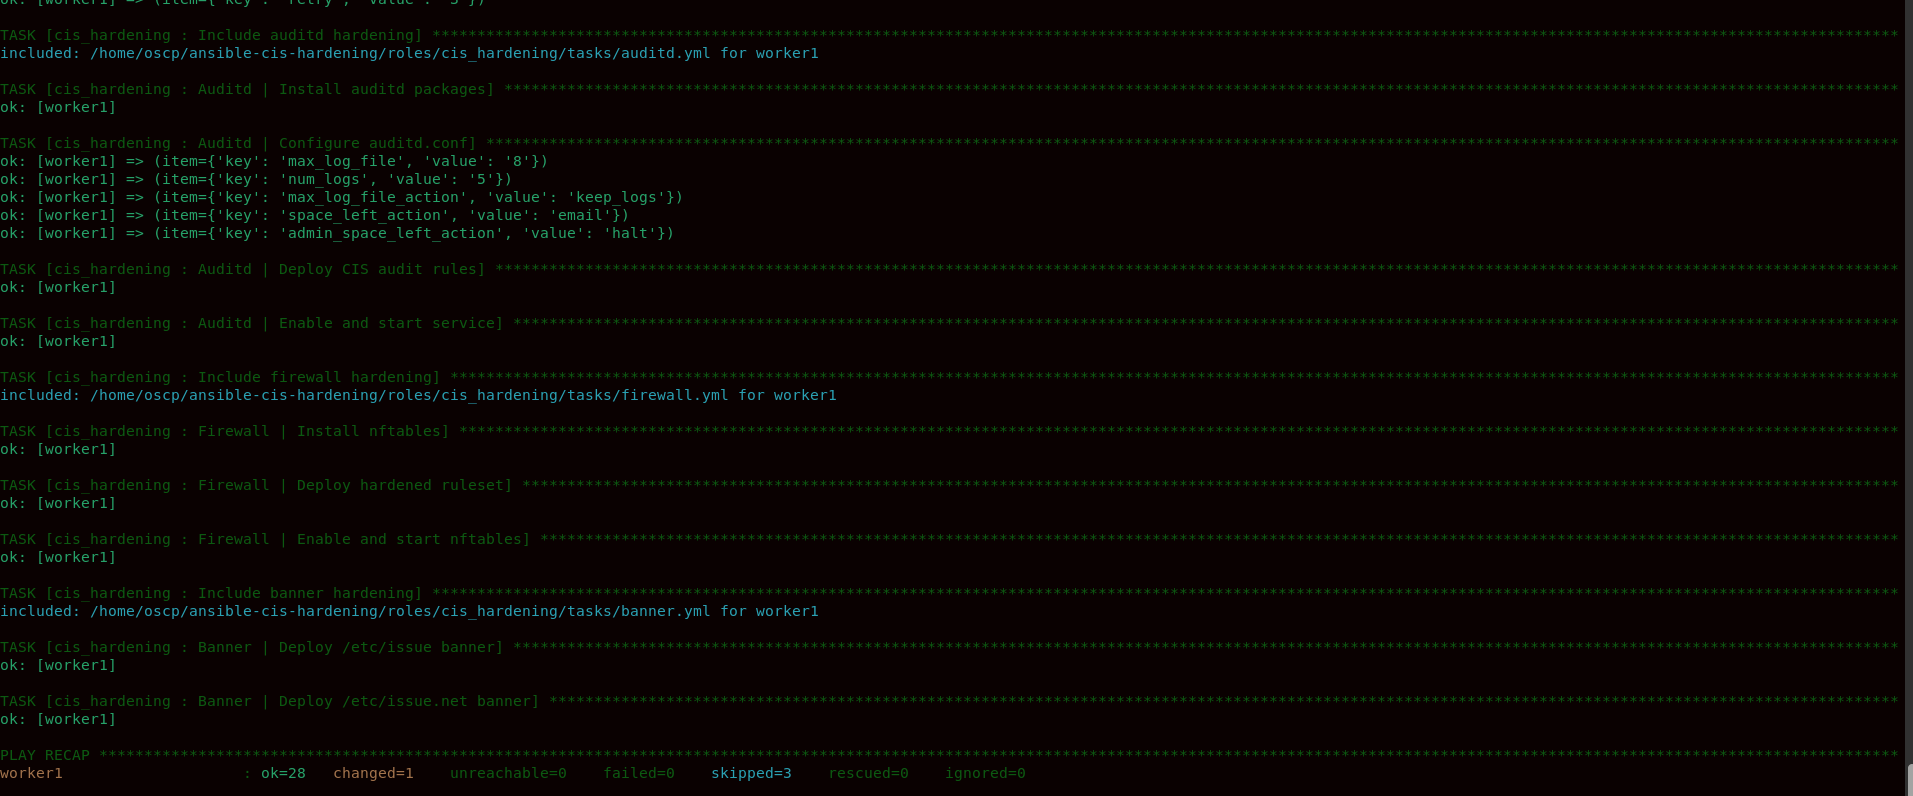
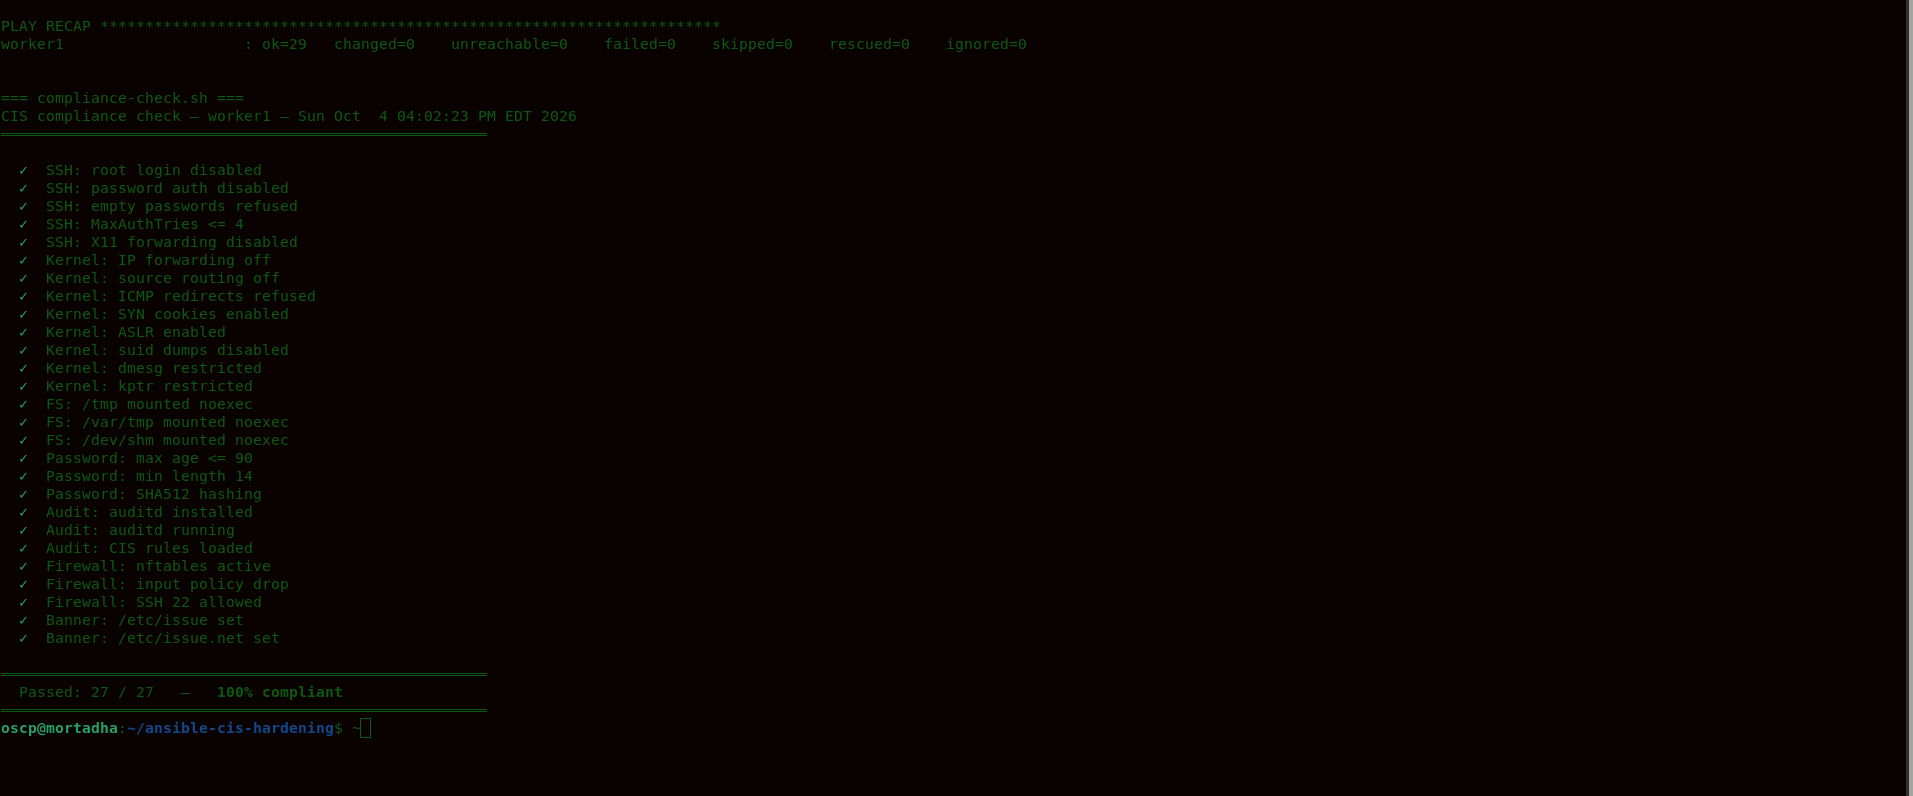
docs: update play-recap with real idempotence + compliance results
- ansible-playbook: changed=0 on second run
- compliance-check: 27/27 passed, 100% compliant
- README: corrected idempotence section with real output

diff --git a/README.md b/README.md
@@ -21,20 +21,18 @@ The compliance script checks the system independently of the playbook. A green `
 ```
 $ ansible-playbook site.yml | tail -3
 PLAY RECAP
-worker1 : ok=31  changed=3  unreachable=0  failed=0
+worker1 : ok=29  changed=0  unreachable=0  failed=0  skipped=0
 
-$ ansible-playbook site.yml --check --diff | tail -3
+$ ansible-playbook site.yml | tail -3
 PLAY RECAP
-worker1 : ok=28  changed=0  unreachable=0  failed=0
+worker1 : ok=29  changed=0  unreachable=0  failed=0  skipped=0
 ```
 
-Second run: `changed=0`. Nothing to do, because everything is already in the target state.
+Zero changes on every run. That's idempotence, and it's the property that separates a role from a script. A script you run once. A role reporting `changed=0` is one you can schedule hourly and forget about — and if it ever reports changes, something drifted and you want to know.
 
-This is the property that makes automation safe to schedule. A role you can only run once is a script. A role you can run every hour is a control.
+Getting there required replacing three `command: mount -o remount` tasks with `ansible.posix.mount`. The `command` module cannot know whether the remount is already in effect, so it reported `changed=3` on every run. The `mount` module compares current mount options against the desired ones and only acts when they differ.
 
-The 3 `changed` on the first run come from the three `command` tasks in the filesystem block (`mount -o remount`). `command` is not idempotent by nature — the fstab entries themselves are. To make them fully idempotent, wrap them in a `when` that checks the current mount options.
-
----
+```
 
 ## What it covers
 
